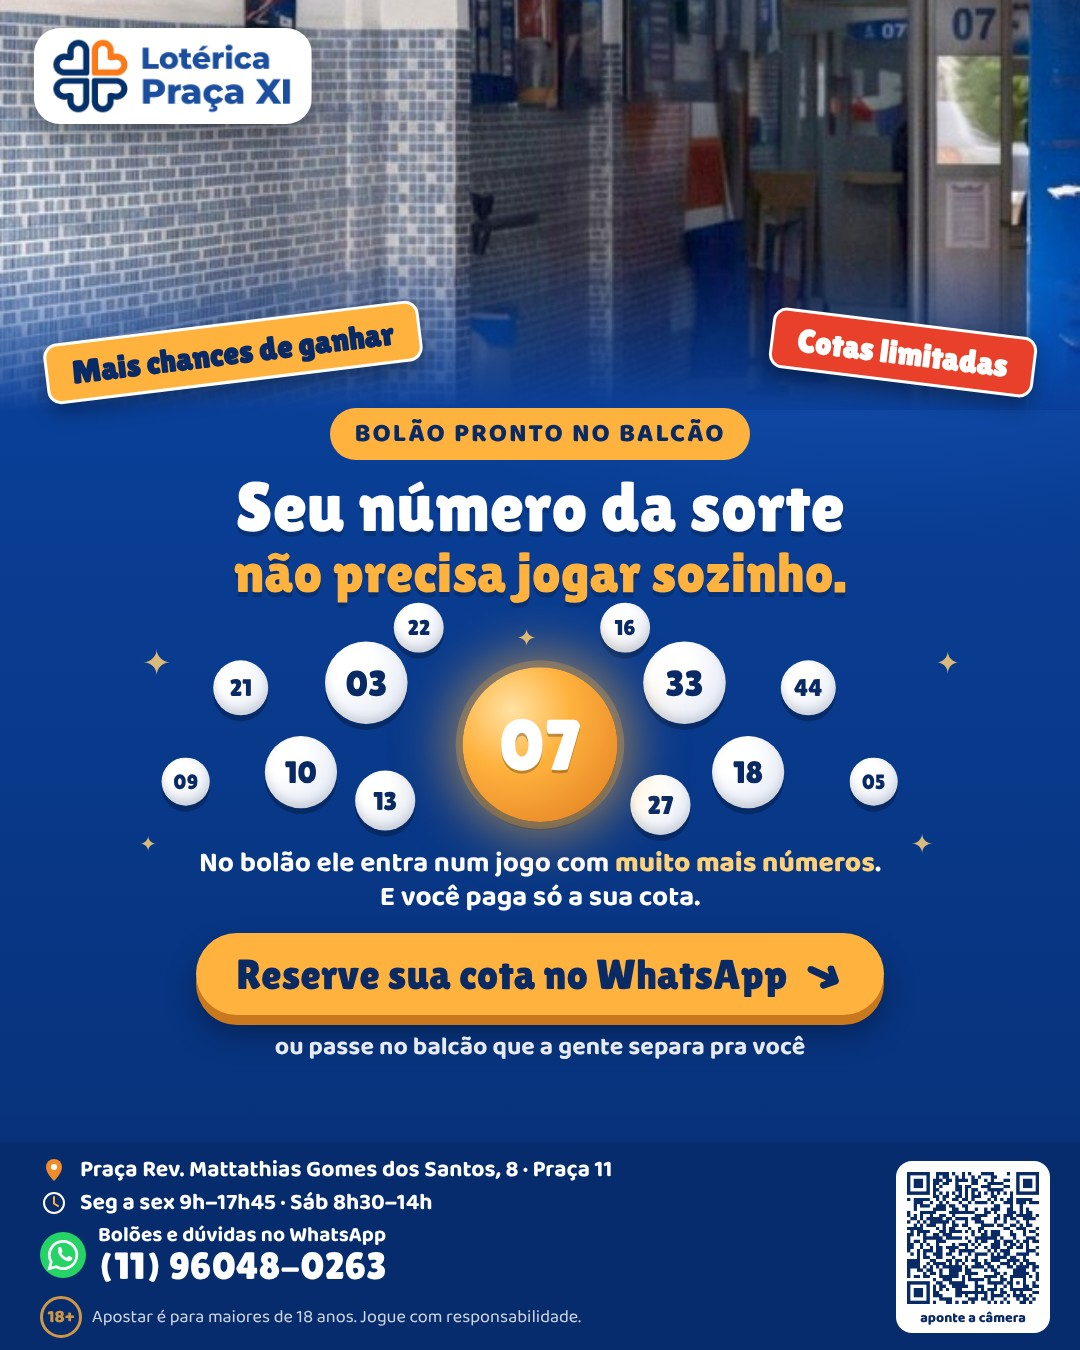
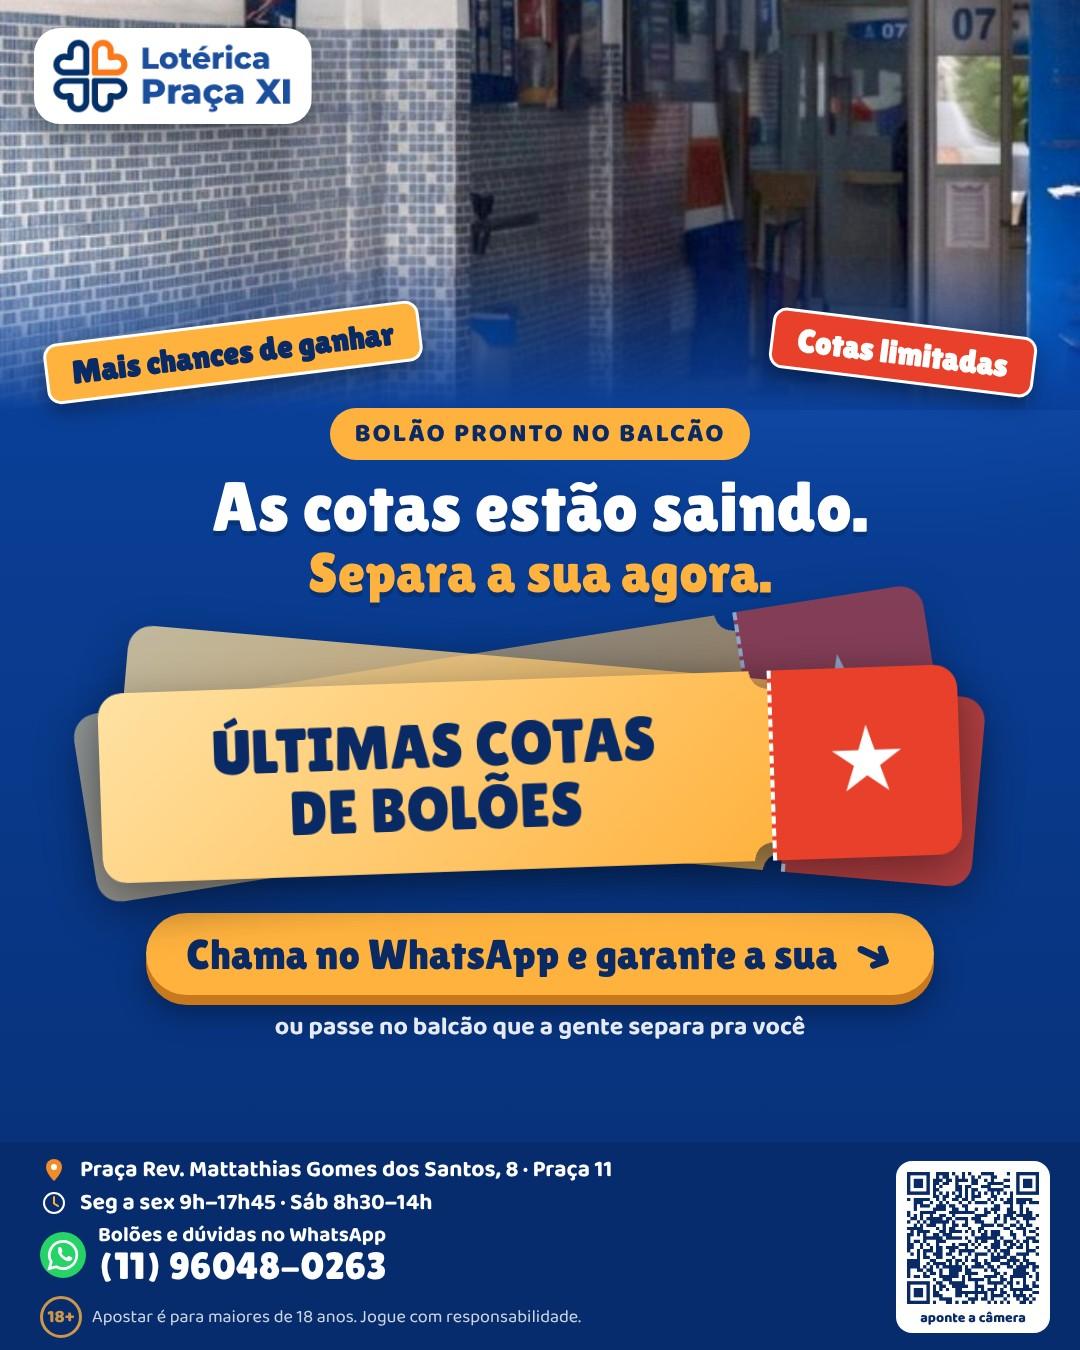
Peça de bolões: cupom "Últimas cotas de bolões" (escolha do Fonseca)
Claude-Session: https://claude.ai/code/session_01Bxe7GpT3JXbyMSz1b7a84R

Changed region(s): [[0.0611, 0.3422, 0.9167, 0.8089]]

diff --git a/pecas-card/bolao_praca-xi.html b/pecas-card/bolao_praca-xi.html
@@ -60,17 +60,14 @@ body{padding:0;align-items:stretch;width:1080px;height:1350px}
 .mk2 .btn{margin-top:22px;background:#FFB23E;color:#0A2A66;font-family:L;font-size:44px;padding:16px 42px;border-radius:60px;box-shadow:0 10px 0 #C9781E,0 18px 30px rgba(0,0,0,.35);display:flex;align-items:center;gap:18px}
 .mk2 .btn b{font-size:46px;transform:rotate(25deg);display:inline-block}
 .mk2 .ou{margin-top:16px;font-weight:700;font-size:25px;opacity:.9}
-.ph{height:410px!important}.cons{height:280px;transform:scale(.86);transform-origin:top center;margin-bottom:-40px;margin-top:8px}.mk2 .h{font-size:70px}.mk2 .h span{font-size:56px}.s2{font-size:28px;margin-top:0}.mk2 .btn{margin-top:18px;font-size:42px;padding:14px 40px}.mk2 .ou{margin-top:12px}</style></head><body>
+.ph{height:410px!important}.cons{height:280px;transform:scale(.86);transform-origin:top center;margin-bottom:-40px;margin-top:8px}.mk2 .h{font-size:70px}.mk2 .h span{font-size:56px}.s2{font-size:28px;margin-top:0}.mk2 .btn{margin-top:18px;font-size:42px;padding:14px 40px}.mk2 .ou{margin-top:12px}.bb{font-style:normal;border-radius:50%;display:inline-flex;align-items:center;justify-content:center;font-family:L;color:#0A2A66;background:radial-gradient(circle at 32% 28%,#fff 0,#fff 28%,#d6def0 100%);box-shadow:0 5px 0 rgba(0,0,0,.25)}.bb.o{color:#fff;background:radial-gradient(circle at 32% 28%,#FFE2A3 0,#FFB23E 38%,#E07A1F 100%);text-shadow:0 2px 0 rgba(0,0,0,.25)}.cup{margin-top:24px;display:flex;width:880px;height:200px;filter:drop-shadow(0 14px 24px rgba(0,0,0,.4));transform:rotate(-2deg)}.cl{flex:1;background:linear-gradient(135deg,#FFE2A3,#FFB23E);border-radius:24px 0 0 24px;color:#0A2A66;display:flex;flex-direction:column;justify-content:center;padding:0 40px;gap:4px;-webkit-mask:radial-gradient(circle 18px at 100% 0,transparent 98%,#000) top/100% 51% no-repeat,radial-gradient(circle 18px at 100% 100%,transparent 98%,#000) bottom/100% 51% no-repeat}.cl small{font-weight:800;font-size:20px;letter-spacing:2px;opacity:.8}.cl b{font-family:L;font-weight:400;font-size:66px;line-height:1}.cl em{font-style:normal;font-weight:700;font-size:26px;opacity:.85}.cr{width:190px;background:#E8402A;border-left:4px dashed #fff;border-radius:0 24px 24px 0;display:flex;flex-direction:column;align-items:center;justify-content:center;color:#fff}.cr b{font-family:L;font-weight:400;font-size:96px;line-height:.9}.cr small{font-weight:800;font-size:26px}.s2{font-weight:700;font-size:29px;margin-top:26px}.s2 b{color:#FFD27A}.lq{position:relative;width:1000px;height:250px;margin-top:14px}.cup.c3{width:860px;height:190px;margin:0}.cup.c3 .cl b{font-size:60px}.s2{margin-top:10px}.lq{margin-top:40px!important;height:236px!important}.s2{margin-top:26px!important}.mk2 .btn{margin-top:16px!important}.cup.c3 .cl b{font-size:62px;line-height:1.02;text-align:center}.cup.c3 .cl{align-items:center}.cup.c3 .cr b{font-size:80px}.lq{margin-bottom:22px!important}</style></head><body>
 <div class="ph" style="--ph:560px;background-image:url(__A__/foto_praca-xi.jpg);background-position:70% 52%;background-size:118%"><img class="lj" style="left:34px" src="__A__/logoloja_praca-xi.png"></div>
-<div class="mid mk2">
-<div class="tag tl">Mais chances de ganhar</div><div class="tag">Cotas limitadas</div>
+<div class="mid mk2"><div class="tag tl">Mais chances de ganhar</div><div class="tag">Cotas limitadas</div>
 <div class="kick">BOLÃO PRONTO NO BALCÃO</div>
-<div class="h">Seu número da sorte<span>não precisa jogar sozinho.</span></div>
-<div class="cons"><s style="left:40px;top:40px;transform:scale(1.2)">✦</s><s style="left:470px;top:10px;transform:scale(0.8)">✦</s><s style="left:960px;top:40px;transform:scale(1)">✦</s><s style="left:30px;top:250px;transform:scale(0.7)">✦</s><s style="left:930px;top:250px;transform:scale(0.9)">✦</s><i class="b sorte" style="left:410px;top:70px;width:180px;height:180px;font-size:84px">07</i><i class="b" style="left:250px;top:40px;width:96px;height:96px;font-size:42px">03</i><i class="b" style="left:180px;top:150px;width:84px;height:84px;font-size:36px">10</i><i class="b" style="left:285px;top:190px;width:70px;height:70px;font-size:30px">13</i><i class="b" style="left:120px;top:62px;width:64px;height:64px;font-size:28px">21</i><i class="b" style="left:60px;top:175px;width:56px;height:56px;font-size:24px">09</i><i class="b" style="left:330px;top:-5px;width:58px;height:58px;font-size:25px">22</i><i class="b" style="left:620px;top:40px;width:96px;height:96px;font-size:42px">33</i><i class="b" style="left:700px;top:150px;width:84px;height:84px;font-size:36px">18</i><i class="b" style="left:605px;top:195px;width:70px;height:70px;font-size:30px">27</i><i class="b" style="left:780px;top:62px;width:64px;height:64px;font-size:28px">44</i><i class="b" style="left:860px;top:175px;width:56px;height:56px;font-size:24px">05</i><i class="b" style="left:570px;top:-5px;width:58px;height:58px;font-size:25px">16</i></div>
-<div class="s2">No bolão ele entra num jogo com <b>muito mais números</b>.<br>E você paga só a sua cota.</div>
-<div class="btn">Reserve sua cota no WhatsApp<b>➜</b></div>
-<div class="ou">ou passe no balcão que a gente separa pra você</div>
-</div>
+<div class="h">As cotas estão saindo.<span>Separa a sua agora.</span></div>
+<div class="lq"><div class="cup c3" style="position:absolute;left:40px;top:10px;transform:rotate(-9deg);opacity:0.55"><div class="cl"></div><div class="cr"><b>★</b></div></div><div class="cup c3" style="position:absolute;left:80px;top:22px;transform:rotate(5deg);opacity:0.75"><div class="cl"></div><div class="cr"><b>★</b></div></div><div class="cup c3" style="position:absolute;left:60px;top:40px;transform:rotate(-2deg);opacity:1"><div class="cl"><b>ÚLTIMAS COTAS<br>DE BOLÕES</b></div><div class="cr"><b>★</b></div></div></div>
+<div class="btn">Chama no WhatsApp e garante a sua<b>➜</b></div>
+<div class="ou">ou passe no balcão que a gente separa pra você</div></div>
 <div class="bot"><div class="bl2"><div class="l"><svg viewBox="0 0 56 56" width="28" height="28"><path d="M28 50s16-15 16-28a16 16 0 10-32 0c0 13 16 28 16 28z" fill="#F28C28"/><circle cx="28" cy="22" r="6" fill="#fff"/></svg>Praça Rev. Mattathias Gomes dos Santos, 8 · Praça 11</div><div class="l"><svg viewBox="0 0 56 56" width="28" height="28"><circle cx="28" cy="28" r="20" fill="none" stroke="#fff" stroke-width="4"/><path d="M28 16v13l8 5" fill="none" stroke="#FFB23E" stroke-width="4" stroke-linecap="round"/></svg>Seg a sex 9h–17h45 · Sáb 8h30–14h</div>
 <div class="wa"><svg viewBox="0 0 32 32" width="46" height="46"><circle cx="16" cy="16" r="16" fill="#25D366"/><path d="M16 6.5a9.5 9.5 0 00-8.2 14.3L6.5 25.5l4.8-1.3A9.5 9.5 0 1016 6.5z" fill="none" stroke="#fff" stroke-width="1.9"/><path d="M12.6 11.2c.3-.7.7-.7 1-.7h.6c.2 0 .5.1.6.5l.8 2c.1.2 0 .5-.1.7l-.5.7c-.1.2-.1.4 0 .6.4.7 1 1.4 1.8 1.9.6.4 1.1.7 1.5.8.2.1.4 0 .6-.1l.7-.8c.2-.2.4-.2.6-.1l1.9.9c.3.1.4.3.4.5 0 .7-.4 1.5-1.2 1.9-.8.4-1.9.4-3.8-.4-2.2-1-3.8-3.2-4.3-4.1-.5-.9-.9-2.2-.4-3.4z" fill="#fff"/></svg><span>Bolões e dúvidas no WhatsApp<b>(11) 96048-0263</b></span></div>
 <div class="f"><span class="b18">18+</span>Apostar é para maiores de 18 anos. Jogue com responsabilidade.</div></div><div class="qr"><img src="__A__/qr_praca-xi.png"><small>aponte a câmera</small></div></div></body></html>

diff --git a/pecas-card/bolao_tomazini.html b/pecas-card/bolao_tomazini.html
@@ -60,17 +60,14 @@ body{padding:0;align-items:stretch;width:1080px;height:1350px}
 .mk2 .btn{margin-top:22px;background:#FFB23E;color:#0A2A66;font-family:L;font-size:44px;padding:16px 42px;border-radius:60px;box-shadow:0 10px 0 #C9781E,0 18px 30px rgba(0,0,0,.35);display:flex;align-items:center;gap:18px}
 .mk2 .btn b{font-size:46px;transform:rotate(25deg);display:inline-block}
 .mk2 .ou{margin-top:16px;font-weight:700;font-size:25px;opacity:.9}
-.ph{height:410px!important}.cons{height:280px;transform:scale(.86);transform-origin:top center;margin-bottom:-40px;margin-top:8px}.mk2 .h{font-size:70px}.mk2 .h span{font-size:56px}.s2{font-size:28px;margin-top:0}.mk2 .btn{margin-top:18px;font-size:42px;padding:14px 40px}.mk2 .ou{margin-top:12px}</style></head><body>
+.ph{height:410px!important}.cons{height:280px;transform:scale(.86);transform-origin:top center;margin-bottom:-40px;margin-top:8px}.mk2 .h{font-size:70px}.mk2 .h span{font-size:56px}.s2{font-size:28px;margin-top:0}.mk2 .btn{margin-top:18px;font-size:42px;padding:14px 40px}.mk2 .ou{margin-top:12px}.bb{font-style:normal;border-radius:50%;display:inline-flex;align-items:center;justify-content:center;font-family:L;color:#0A2A66;background:radial-gradient(circle at 32% 28%,#fff 0,#fff 28%,#d6def0 100%);box-shadow:0 5px 0 rgba(0,0,0,.25)}.bb.o{color:#fff;background:radial-gradient(circle at 32% 28%,#FFE2A3 0,#FFB23E 38%,#E07A1F 100%);text-shadow:0 2px 0 rgba(0,0,0,.25)}.cup{margin-top:24px;display:flex;width:880px;height:200px;filter:drop-shadow(0 14px 24px rgba(0,0,0,.4));transform:rotate(-2deg)}.cl{flex:1;background:linear-gradient(135deg,#FFE2A3,#FFB23E);border-radius:24px 0 0 24px;color:#0A2A66;display:flex;flex-direction:column;justify-content:center;padding:0 40px;gap:4px;-webkit-mask:radial-gradient(circle 18px at 100% 0,transparent 98%,#000) top/100% 51% no-repeat,radial-gradient(circle 18px at 100% 100%,transparent 98%,#000) bottom/100% 51% no-repeat}.cl small{font-weight:800;font-size:20px;letter-spacing:2px;opacity:.8}.cl b{font-family:L;font-weight:400;font-size:66px;line-height:1}.cl em{font-style:normal;font-weight:700;font-size:26px;opacity:.85}.cr{width:190px;background:#E8402A;border-left:4px dashed #fff;border-radius:0 24px 24px 0;display:flex;flex-direction:column;align-items:center;justify-content:center;color:#fff}.cr b{font-family:L;font-weight:400;font-size:96px;line-height:.9}.cr small{font-weight:800;font-size:26px}.s2{font-weight:700;font-size:29px;margin-top:26px}.s2 b{color:#FFD27A}.lq{position:relative;width:1000px;height:250px;margin-top:14px}.cup.c3{width:860px;height:190px;margin:0}.cup.c3 .cl b{font-size:60px}.s2{margin-top:10px}.lq{margin-top:40px!important;height:236px!important}.s2{margin-top:26px!important}.mk2 .btn{margin-top:16px!important}.cup.c3 .cl b{font-size:62px;line-height:1.02;text-align:center}.cup.c3 .cl{align-items:center}.cup.c3 .cr b{font-size:80px}.lq{margin-bottom:22px!important}</style></head><body>
 <div class="ph" style="--ph:560px;background-image:url(__A__/foto_tomazini.jpg);background-position:60% 76%;background-size:112%"><img class="lj" style="right:34px" src="__A__/logoloja_tomazini.png"></div>
-<div class="mid mk2">
-<div class="tag tl">Mais chances de ganhar</div><div class="tag">Cotas limitadas</div>
+<div class="mid mk2"><div class="tag tl">Mais chances de ganhar</div><div class="tag">Cotas limitadas</div>
 <div class="kick">BOLÃO PRONTO NO BALCÃO</div>
-<div class="h">Seu número da sorte<span>não precisa jogar sozinho.</span></div>
-<div class="cons"><s style="left:40px;top:40px;transform:scale(1.2)">✦</s><s style="left:470px;top:10px;transform:scale(0.8)">✦</s><s style="left:960px;top:40px;transform:scale(1)">✦</s><s style="left:30px;top:250px;transform:scale(0.7)">✦</s><s style="left:930px;top:250px;transform:scale(0.9)">✦</s><i class="b sorte" style="left:410px;top:70px;width:180px;height:180px;font-size:84px">07</i><i class="b" style="left:250px;top:40px;width:96px;height:96px;font-size:42px">03</i><i class="b" style="left:180px;top:150px;width:84px;height:84px;font-size:36px">10</i><i class="b" style="left:285px;top:190px;width:70px;height:70px;font-size:30px">13</i><i class="b" style="left:120px;top:62px;width:64px;height:64px;font-size:28px">21</i><i class="b" style="left:60px;top:175px;width:56px;height:56px;font-size:24px">09</i><i class="b" style="left:330px;top:-5px;width:58px;height:58px;font-size:25px">22</i><i class="b" style="left:620px;top:40px;width:96px;height:96px;font-size:42px">33</i><i class="b" style="left:700px;top:150px;width:84px;height:84px;font-size:36px">18</i><i class="b" style="left:605px;top:195px;width:70px;height:70px;font-size:30px">27</i><i class="b" style="left:780px;top:62px;width:64px;height:64px;font-size:28px">44</i><i class="b" style="left:860px;top:175px;width:56px;height:56px;font-size:24px">05</i><i class="b" style="left:570px;top:-5px;width:58px;height:58px;font-size:25px">16</i></div>
-<div class="s2">No bolão ele entra num jogo com <b>muito mais números</b>.<br>E você paga só a sua cota.</div>
-<div class="btn">Reserve sua cota no WhatsApp<b>➜</b></div>
-<div class="ou">ou passe no balcão que a gente separa pra você</div>
-</div>
+<div class="h">As cotas estão saindo.<span>Separa a sua agora.</span></div>
+<div class="lq"><div class="cup c3" style="position:absolute;left:40px;top:10px;transform:rotate(-9deg);opacity:0.55"><div class="cl"></div><div class="cr"><b>★</b></div></div><div class="cup c3" style="position:absolute;left:80px;top:22px;transform:rotate(5deg);opacity:0.75"><div class="cl"></div><div class="cr"><b>★</b></div></div><div class="cup c3" style="position:absolute;left:60px;top:40px;transform:rotate(-2deg);opacity:1"><div class="cl"><b>ÚLTIMAS COTAS<br>DE BOLÕES</b></div><div class="cr"><b>★</b></div></div></div>
+<div class="btn">Chama no WhatsApp e garante a sua<b>➜</b></div>
+<div class="ou">ou passe no balcão que a gente separa pra você</div></div>
 <div class="bot"><div class="bl2"><div class="l"><svg viewBox="0 0 56 56" width="28" height="28"><path d="M28 50s16-15 16-28a16 16 0 10-32 0c0 13 16 28 16 28z" fill="#F28C28"/><circle cx="28" cy="22" r="6" fill="#fff"/></svg>Av. Boturussu, 2074 · Centro de Ermelino Matarazzo</div><div class="l"><svg viewBox="0 0 56 56" width="28" height="28"><circle cx="28" cy="28" r="20" fill="none" stroke="#fff" stroke-width="4"/><path d="M28 16v13l8 5" fill="none" stroke="#FFB23E" stroke-width="4" stroke-linecap="round"/></svg>Seg a sex 9h–17h30 · Sáb 9h–14h30</div>
 <div class="wa"><svg viewBox="0 0 32 32" width="46" height="46"><circle cx="16" cy="16" r="16" fill="#25D366"/><path d="M16 6.5a9.5 9.5 0 00-8.2 14.3L6.5 25.5l4.8-1.3A9.5 9.5 0 1016 6.5z" fill="none" stroke="#fff" stroke-width="1.9"/><path d="M12.6 11.2c.3-.7.7-.7 1-.7h.6c.2 0 .5.1.6.5l.8 2c.1.2 0 .5-.1.7l-.5.7c-.1.2-.1.4 0 .6.4.7 1 1.4 1.8 1.9.6.4 1.1.7 1.5.8.2.1.4 0 .6-.1l.7-.8c.2-.2.4-.2.6-.1l1.9.9c.3.1.4.3.4.5 0 .7-.4 1.5-1.2 1.9-.8.4-1.9.4-3.8-.4-2.2-1-3.8-3.2-4.3-4.1-.5-.9-.9-2.2-.4-3.4z" fill="#fff"/></svg><span>Bolões e dúvidas no WhatsApp<b>(11) 97896-2327</b></span></div>
 <div class="f"><span class="b18">18+</span>Apostar é para maiores de 18 anos. Jogue com responsabilidade.</div></div><div class="qr"><img src="__A__/qr_tomazini.png"><small>aponte a câmera</small></div></div></body></html>

diff --git a/pecas-card/bolao_we.html b/pecas-card/bolao_we.html
@@ -60,17 +60,14 @@ body{padding:0;align-items:stretch;width:1080px;height:1350px}
 .mk2 .btn{margin-top:22px;background:#FFB23E;color:#0A2A66;font-family:L;font-size:44px;padding:16px 42px;border-radius:60px;box-shadow:0 10px 0 #C9781E,0 18px 30px rgba(0,0,0,.35);display:flex;align-items:center;gap:18px}
 .mk2 .btn b{font-size:46px;transform:rotate(25deg);display:inline-block}
 .mk2 .ou{margin-top:16px;font-weight:700;font-size:25px;opacity:.9}
-.ph{height:410px!important}.cons{height:280px;transform:scale(.86);transform-origin:top center;margin-bottom:-40px;margin-top:8px}.mk2 .h{font-size:70px}.mk2 .h span{font-size:56px}.s2{font-size:28px;margin-top:0}.mk2 .btn{margin-top:18px;font-size:42px;padding:14px 40px}.mk2 .ou{margin-top:12px}</style></head><body>
+.ph{height:410px!important}.cons{height:280px;transform:scale(.86);transform-origin:top center;margin-bottom:-40px;margin-top:8px}.mk2 .h{font-size:70px}.mk2 .h span{font-size:56px}.s2{font-size:28px;margin-top:0}.mk2 .btn{margin-top:18px;font-size:42px;padding:14px 40px}.mk2 .ou{margin-top:12px}.bb{font-style:normal;border-radius:50%;display:inline-flex;align-items:center;justify-content:center;font-family:L;color:#0A2A66;background:radial-gradient(circle at 32% 28%,#fff 0,#fff 28%,#d6def0 100%);box-shadow:0 5px 0 rgba(0,0,0,.25)}.bb.o{color:#fff;background:radial-gradient(circle at 32% 28%,#FFE2A3 0,#FFB23E 38%,#E07A1F 100%);text-shadow:0 2px 0 rgba(0,0,0,.25)}.cup{margin-top:24px;display:flex;width:880px;height:200px;filter:drop-shadow(0 14px 24px rgba(0,0,0,.4));transform:rotate(-2deg)}.cl{flex:1;background:linear-gradient(135deg,#FFE2A3,#FFB23E);border-radius:24px 0 0 24px;color:#0A2A66;display:flex;flex-direction:column;justify-content:center;padding:0 40px;gap:4px;-webkit-mask:radial-gradient(circle 18px at 100% 0,transparent 98%,#000) top/100% 51% no-repeat,radial-gradient(circle 18px at 100% 100%,transparent 98%,#000) bottom/100% 51% no-repeat}.cl small{font-weight:800;font-size:20px;letter-spacing:2px;opacity:.8}.cl b{font-family:L;font-weight:400;font-size:66px;line-height:1}.cl em{font-style:normal;font-weight:700;font-size:26px;opacity:.85}.cr{width:190px;background:#E8402A;border-left:4px dashed #fff;border-radius:0 24px 24px 0;display:flex;flex-direction:column;align-items:center;justify-content:center;color:#fff}.cr b{font-family:L;font-weight:400;font-size:96px;line-height:.9}.cr small{font-weight:800;font-size:26px}.s2{font-weight:700;font-size:29px;margin-top:26px}.s2 b{color:#FFD27A}.lq{position:relative;width:1000px;height:250px;margin-top:14px}.cup.c3{width:860px;height:190px;margin:0}.cup.c3 .cl b{font-size:60px}.s2{margin-top:10px}.lq{margin-top:40px!important;height:236px!important}.s2{margin-top:26px!important}.mk2 .btn{margin-top:16px!important}.cup.c3 .cl b{font-size:62px;line-height:1.02;text-align:center}.cup.c3 .cl{align-items:center}.cup.c3 .cr b{font-size:80px}.lq{margin-bottom:22px!important}</style></head><body>
 <div class="ph" style="--ph:560px;background-image:url(__A__/foto_we.jpg);background-position:35% 45%;background-size:cover"><img class="lj" style="right:34px" src="__A__/logoloja_we.png"></div>
-<div class="mid mk2">
-<div class="tag tl">Mais chances de ganhar</div><div class="tag">Cotas limitadas</div>
+<div class="mid mk2"><div class="tag tl">Mais chances de ganhar</div><div class="tag">Cotas limitadas</div>
 <div class="kick">BOLÃO PRONTO NO BALCÃO</div>
-<div class="h">Seu número da sorte<span>não precisa jogar sozinho.</span></div>
-<div class="cons"><s style="left:40px;top:40px;transform:scale(1.2)">✦</s><s style="left:470px;top:10px;transform:scale(0.8)">✦</s><s style="left:960px;top:40px;transform:scale(1)">✦</s><s style="left:30px;top:250px;transform:scale(0.7)">✦</s><s style="left:930px;top:250px;transform:scale(0.9)">✦</s><i class="b sorte" style="left:410px;top:70px;width:180px;height:180px;font-size:84px">07</i><i class="b" style="left:250px;top:40px;width:96px;height:96px;font-size:42px">03</i><i class="b" style="left:180px;top:150px;width:84px;height:84px;font-size:36px">10</i><i class="b" style="left:285px;top:190px;width:70px;height:70px;font-size:30px">13</i><i class="b" style="left:120px;top:62px;width:64px;height:64px;font-size:28px">21</i><i class="b" style="left:60px;top:175px;width:56px;height:56px;font-size:24px">09</i><i class="b" style="left:330px;top:-5px;width:58px;height:58px;font-size:25px">22</i><i class="b" style="left:620px;top:40px;width:96px;height:96px;font-size:42px">33</i><i class="b" style="left:700px;top:150px;width:84px;height:84px;font-size:36px">18</i><i class="b" style="left:605px;top:195px;width:70px;height:70px;font-size:30px">27</i><i class="b" style="left:780px;top:62px;width:64px;height:64px;font-size:28px">44</i><i class="b" style="left:860px;top:175px;width:56px;height:56px;font-size:24px">05</i><i class="b" style="left:570px;top:-5px;width:58px;height:58px;font-size:25px">16</i></div>
-<div class="s2">No bolão ele entra num jogo com <b>muito mais números</b>.<br>E você paga só a sua cota.</div>
-<div class="btn">Reserve sua cota no WhatsApp<b>➜</b></div>
-<div class="ou">ou passe no balcão que a gente separa pra você</div>
-</div>
+<div class="h">As cotas estão saindo.<span>Separa a sua agora.</span></div>
+<div class="lq"><div class="cup c3" style="position:absolute;left:40px;top:10px;transform:rotate(-9deg);opacity:0.55"><div class="cl"></div><div class="cr"><b>★</b></div></div><div class="cup c3" style="position:absolute;left:80px;top:22px;transform:rotate(5deg);opacity:0.75"><div class="cl"></div><div class="cr"><b>★</b></div></div><div class="cup c3" style="position:absolute;left:60px;top:40px;transform:rotate(-2deg);opacity:1"><div class="cl"><b>ÚLTIMAS COTAS<br>DE BOLÕES</b></div><div class="cr"><b>★</b></div></div></div>
+<div class="btn">Chama no WhatsApp e garante a sua<b>➜</b></div>
+<div class="ou">ou passe no balcão que a gente separa pra você</div></div>
 <div class="bot"><div class="bl2"><div class="l"><svg viewBox="0 0 56 56" width="28" height="28"><path d="M28 50s16-15 16-28a16 16 0 10-32 0c0 13 16 28 16 28z" fill="#F28C28"/><circle cx="28" cy="22" r="6" fill="#fff"/></svg>Estrada do Lageado Velho, 1013 · Guaianazes</div><div class="l"><svg viewBox="0 0 56 56" width="28" height="28"><circle cx="28" cy="28" r="20" fill="none" stroke="#fff" stroke-width="4"/><path d="M28 16v13l8 5" fill="none" stroke="#FFB23E" stroke-width="4" stroke-linecap="round"/></svg>Seg a sex 9h–19h30 · Sáb 9h–14h30</div>
 <div class="wa"><svg viewBox="0 0 32 32" width="46" height="46"><circle cx="16" cy="16" r="16" fill="#25D366"/><path d="M16 6.5a9.5 9.5 0 00-8.2 14.3L6.5 25.5l4.8-1.3A9.5 9.5 0 1016 6.5z" fill="none" stroke="#fff" stroke-width="1.9"/><path d="M12.6 11.2c.3-.7.7-.7 1-.7h.6c.2 0 .5.1.6.5l.8 2c.1.2 0 .5-.1.7l-.5.7c-.1.2-.1.4 0 .6.4.7 1 1.4 1.8 1.9.6.4 1.1.7 1.5.8.2.1.4 0 .6-.1l.7-.8c.2-.2.4-.2.6-.1l1.9.9c.3.1.4.3.4.5 0 .7-.4 1.5-1.2 1.9-.8.4-1.9.4-3.8-.4-2.2-1-3.8-3.2-4.3-4.1-.5-.9-.9-2.2-.4-3.4z" fill="#fff"/></svg><span>Bolões e dúvidas no WhatsApp<b>(11) 97658-9981</b></span></div>
 <div class="f"><span class="b18">18+</span>Apostar é para maiores de 18 anos. Jogue com responsabilidade.</div></div><div class="qr"><img src="__A__/qr_we.png"><small>aponte a câmera</small></div></div></body></html>
